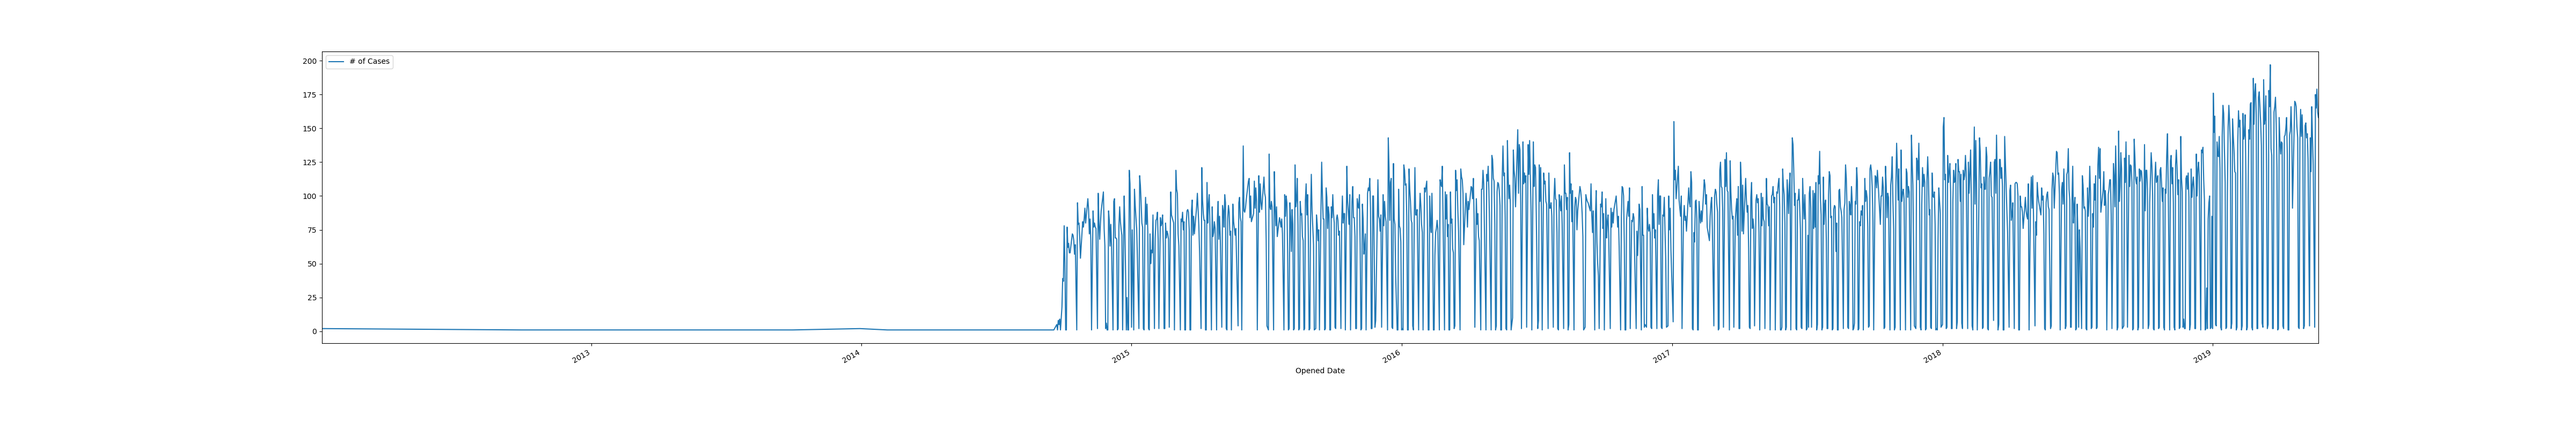
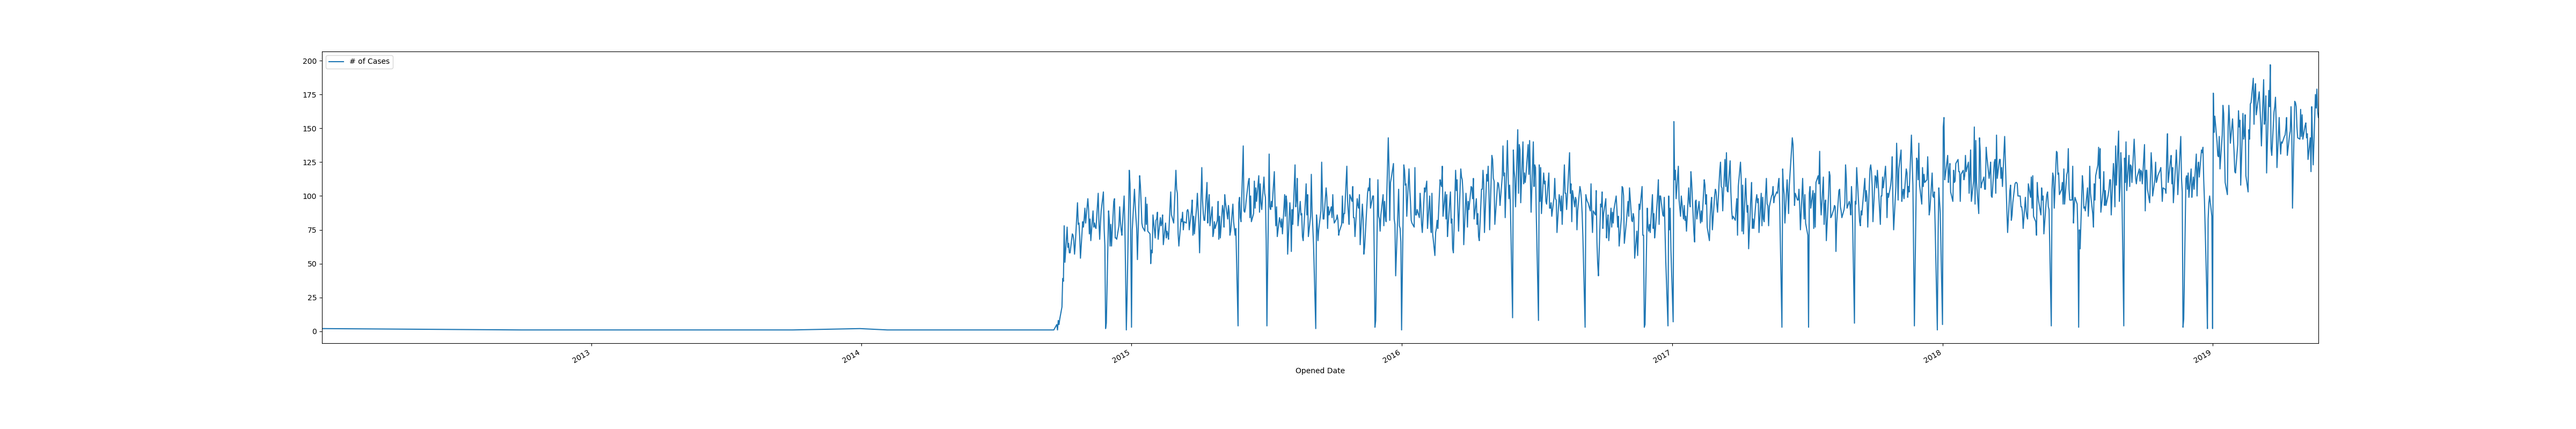
Dropped weekends from data

Changed region(s): [[0.4062, 0.25, 0.9062, 0.7812]]

diff --git a/plot.py b/plot.py
@@ -3,20 +3,15 @@ import matplotlib.pyplot as plt
 import numpy as np
 
 # Read the CSV
-df = pd.read_csv('Opened_Cases_RR_AllTime.csv')
-
-# Drop unnecessary columns
-df.drop(['Case Number', 'Issue Summary', 'Account Name'], axis=1,
-        inplace=True)
-
-# Convert the Opened Date column to datetime
-df['Opened Date'] = pd.to_datetime(df['Opened Date'])
+df = pd.read_csv('Opened_Cases_RR_AllTime.csv',   # file to read
+                 parse_dates=['Opened Date'],  # columns to parse as dates
+                 usecols=['Opened Date'])
 
 # Sort them by date
 df.sort_values(by=['Opened Date'], inplace=True, ascending=True)
 # Convert the Opened Date to a Day of Week
-df['Day of Week'] = df.loc(df['Opened Date'].dt.dayofweek <= 4)
-# df['Day of Week'] = df['Opened Date'].dt.dayofweek
+df['Day of Week'] = df['Opened Date'].dt.dayofweek
+df = df[df['Day of Week'] <= 4]
 
 # Create the # of Cases column from the Opened Date
 df['# of Cases'] = df.groupby('Opened Date')['Opened Date'].transform('count')
@@ -33,9 +28,8 @@ plt.savefig('output.png')
 df.to_csv('Opened_Cases_RR_AllTime_Modified.csv', encoding='utf-8', index=False)
 
 # Random debugging shit
-pd.option_context('display.max_rows', None)
+pd.option_context('display.max_rows', None, 'display.max_columns', None)
 print(df)
-print(len(df.index))
 
 # Gotta show it in the IDE!
 plt.show()
